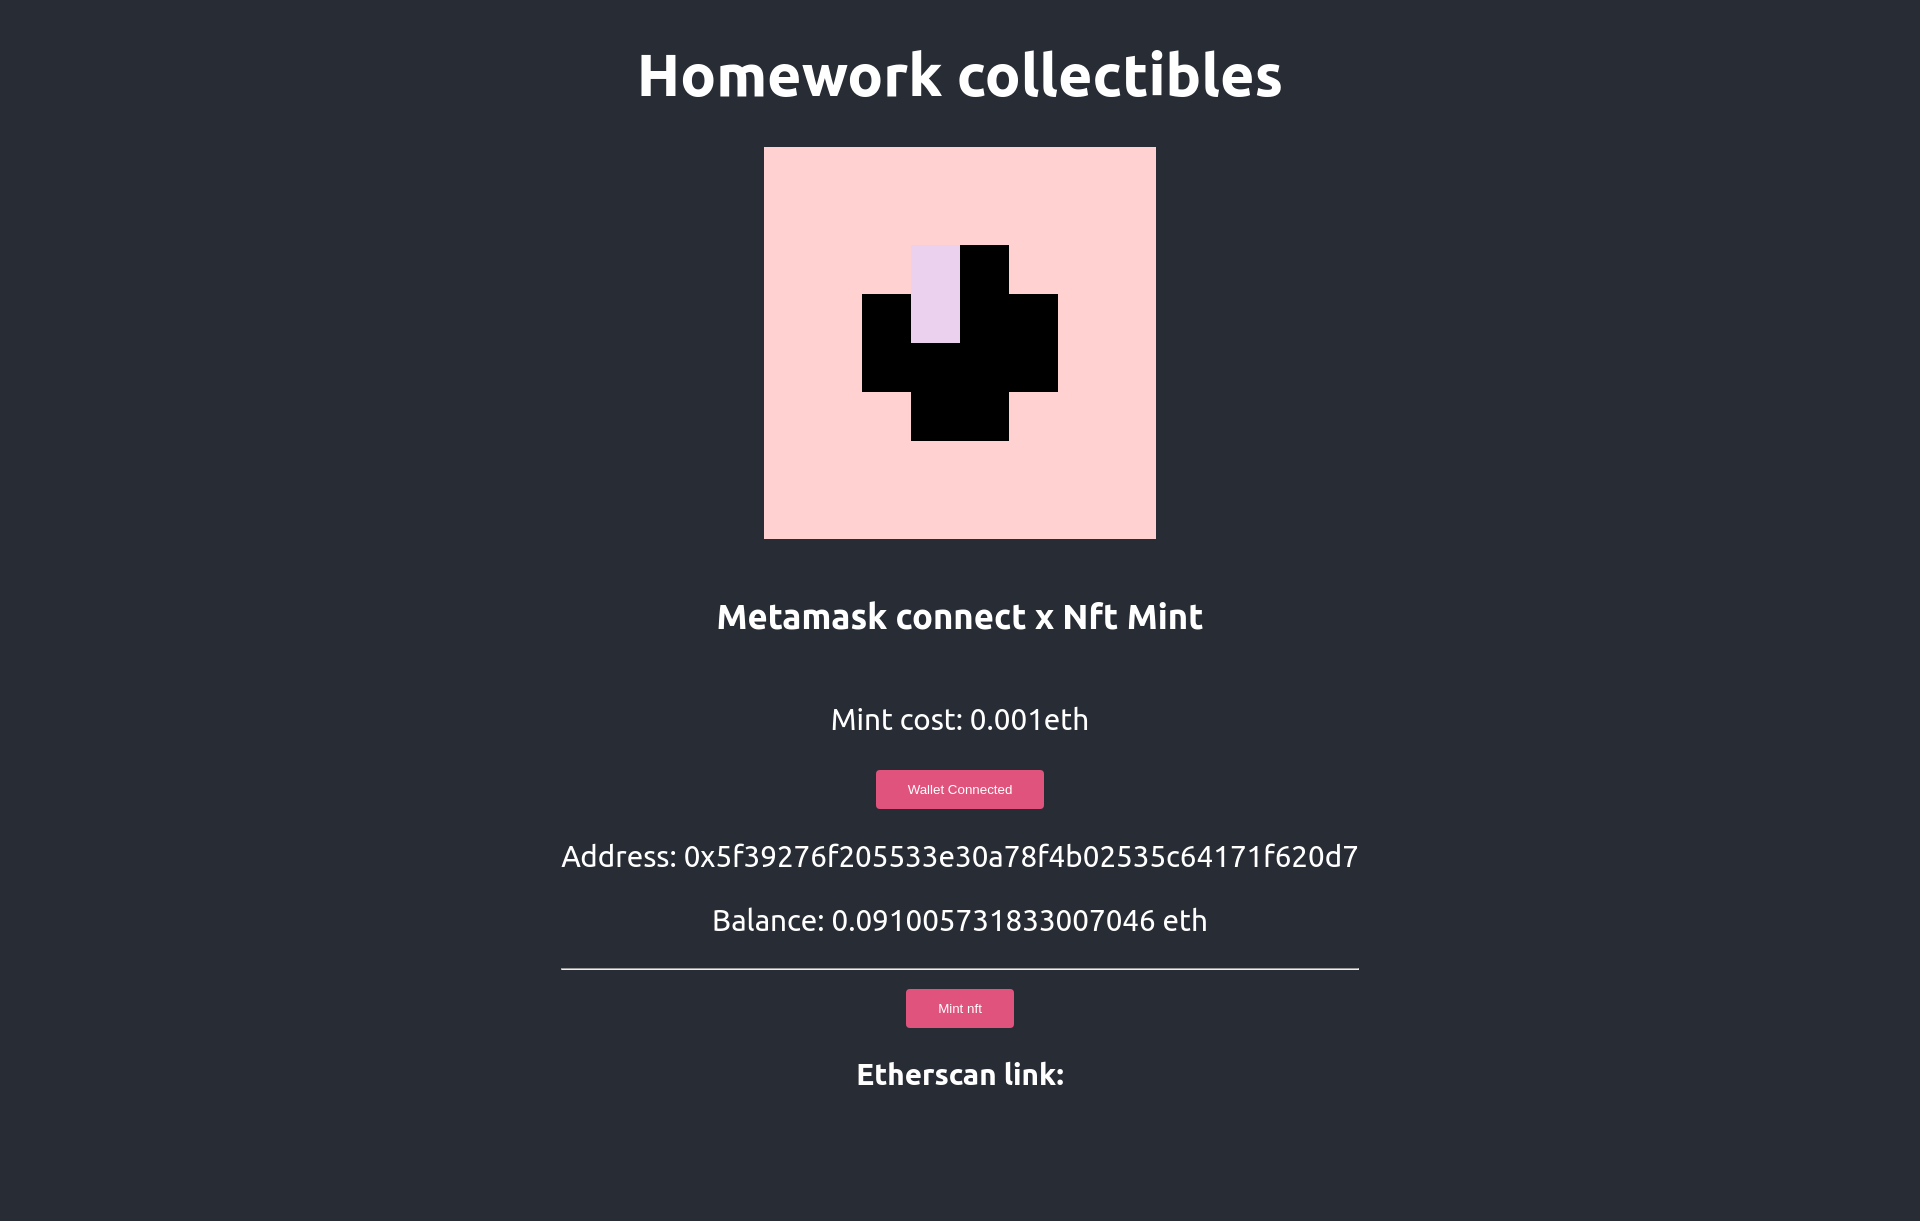
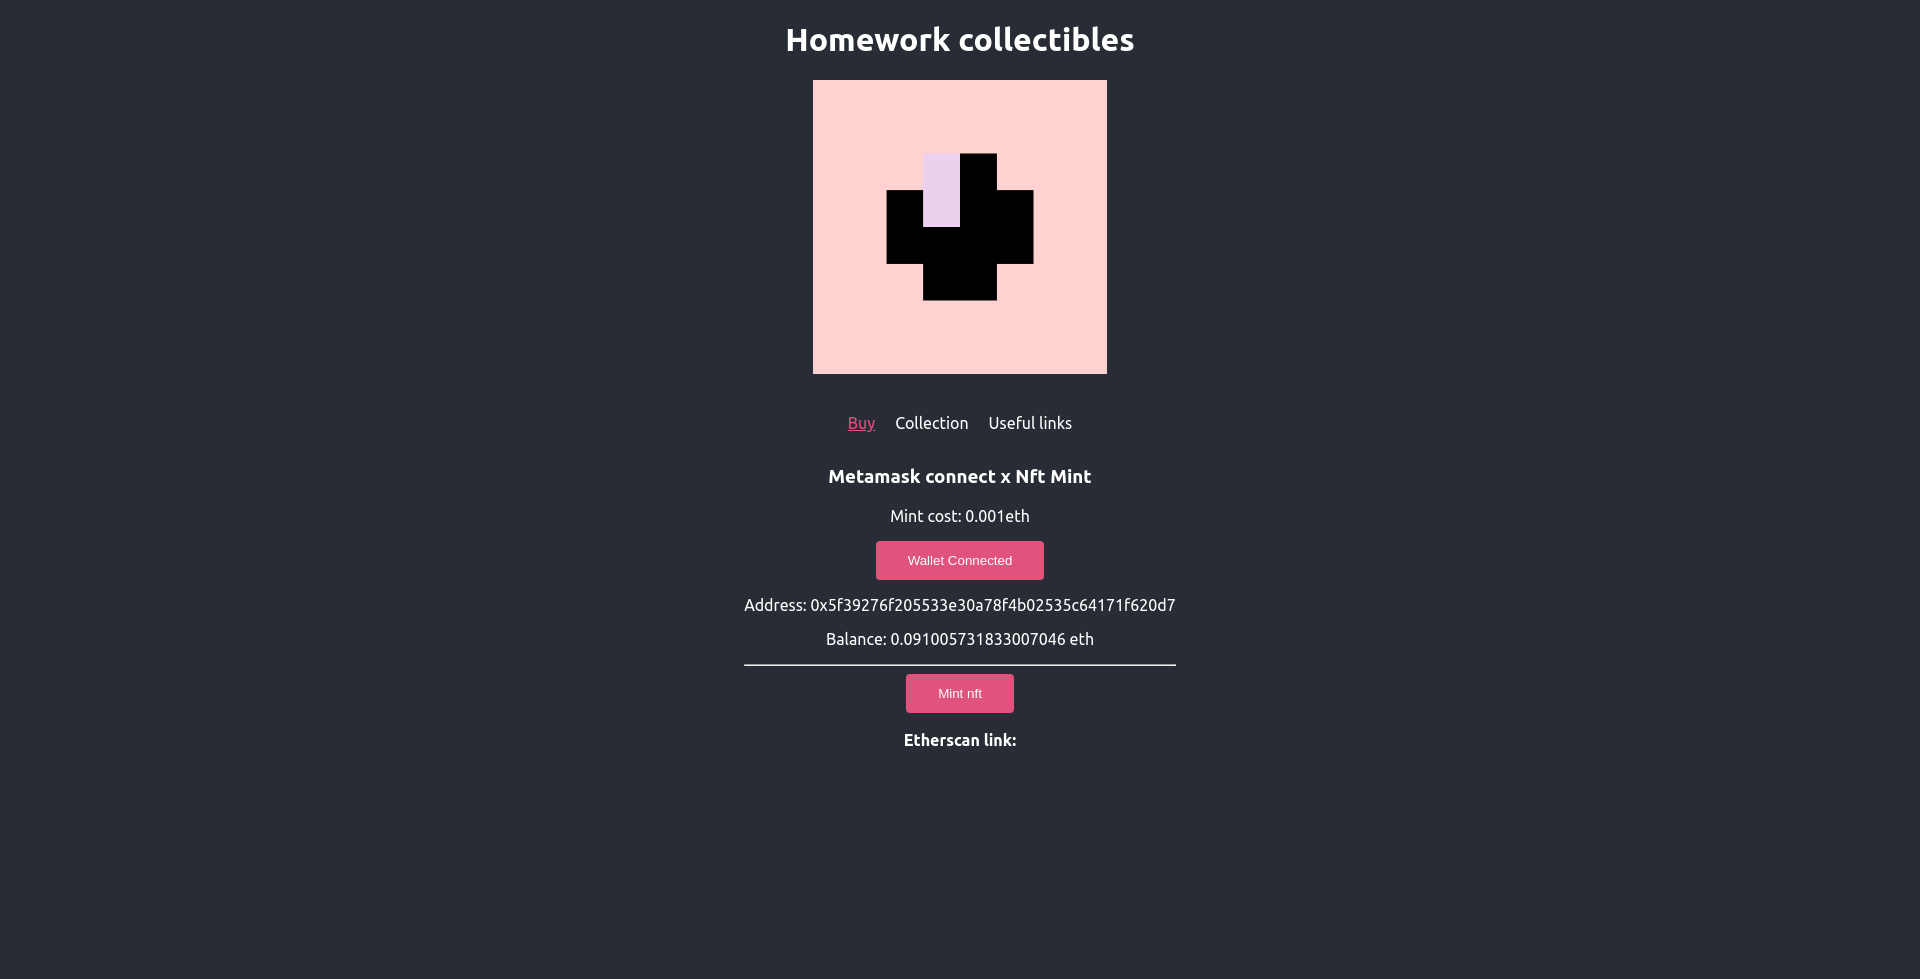
Improve frontend

Changed region(s): [[0.2812, 0.0306, 0.7188, 0.7661], [0.4375, 0.7967, 0.5625, 0.8887]]

diff --git a/frontend/src/pages/App/App.jsx b/frontend/src/pages/App/App.jsx
@@ -1,0 +1,46 @@
+import React, { useState, useCallback } from "react";
+import logo from "../../assets/images/logo.png";
+import "./App.css";
+import Metamask from "../../components/Metamask";
+import Collection from "../../components/Collection";
+
+function App() {
+  const [menu, setMenu] = useState(0);
+
+  const handleMenuChange = useCallback((id) => {
+    setMenu(id)
+  }, [menu])
+
+  const isSelectedMenu = useCallback((id) => {
+    return menu === id
+  }, [menu])
+
+  const selectedMenuStyle = useCallback((id) => {
+    return menu === id ? {textDecoration: "underline", color: "#e0537d"} : {}
+  }, [menu])
+  
+  return (
+    <div className="App">
+      <header className="App-header">
+        <h1>Homework collectibles</h1>
+
+        <img src={logo} className="App-logo" alt="logo" />
+
+        <ul className="App-menu">
+          <li style={selectedMenuStyle(0)} onClick={()=>{handleMenuChange(0)}}>Buy</li>
+          <li style={selectedMenuStyle(1)} onClick={()=>{handleMenuChange(1)}}>Collection</li>
+          <li style={selectedMenuStyle(2)} onClick={()=>{handleMenuChange(2)}}>Useful links</li>
+        </ul>
+
+        { isSelectedMenu(0) &&
+          <Metamask></Metamask>
+        }
+        { isSelectedMenu(1) &&
+          <Collection></Collection>
+        }
+      </header>
+    </div>
+  );
+}
+
+export default App;

diff --git a/frontend/src/pages/App/App.css b/frontend/src/pages/App/App.css
@@ -1,0 +1,90 @@
+.App {
+  text-align: center;
+}
+
+.App-logo {
+  height: 30vmin;
+  pointer-events: none;
+  margin-bottom: 24px;
+}
+
+html {
+  background-color: #282c34;
+}
+
+.App-header {
+  display: flex;
+  flex-direction: column;
+  align-items: center;
+  justify-content: center;
+  font-size: calc(16px);
+  color: white;
+}
+
+.App-link {
+  color: #61dafb;
+}
+
+button {
+  padding: 10px 30px;
+  background-color: #e0537d;
+  border-radius: 4px;
+  border: 2px solid #e0537d;
+  color: white;
+}
+
+button:hover{
+  cursor: pointer;
+  transform: translate(-2px, -2px);
+  border-bottom-color: #d8a5b4;
+  border-right-color: #d8a5b4;
+}
+
+a {
+  color: #e0537d;
+  font-size: 18px;
+}
+
+.App-menu {
+  padding: 0;
+  list-style: none;
+  display: flex;
+  flex-direction: row;
+}
+
+.App-menu > li {
+  padding: 0 10px;
+}
+
+.App-menu > li:hover {
+  text-decoration: underline;
+  cursor: pointer;
+}
+
+.Collection-cards {
+  margin-bottom: 100px;
+  display: flex;
+  flex-wrap: wrap;
+  justify-content: center;
+}
+
+.Card {
+  margin: 10px 22px;
+  background-color: #2e3746;
+  border: 1px solid #2e3746;
+  border-radius: 6px;
+  overflow: hidden;
+}
+
+.Card-image {
+  max-width: 256px;
+}
+
+.Card-title {
+  margin: 10px 0;
+}
+
+.Card-link {
+  line-height: 2rem;
+  font-size: 14px;
+}

diff --git a/frontend/src/components/Collection.jsx b/frontend/src/components/Collection.jsx
@@ -1,0 +1,26 @@
+import React from "react";
+import Card from "./Card";
+
+const Collection = ()=>{
+
+    return (
+        <div className="Collection">
+            <h3>NFT's Gallery</h3>
+
+            <div className="Collection-cards">
+                <Card id="1" title="Homework Collection"></Card>
+                <Card id="2" title="Homework Collection"></Card>
+                <Card id="3" title="Homework Collection"></Card>
+                <Card id="4" title="Homework Collection"></Card>
+                <Card id="5" title="Homework Collection"></Card>
+                <Card id="6" title="Homework Collection"></Card>
+                <Card id="7" title="Homework Collection"></Card>
+                <Card id="8" title="Homework Collection"></Card>
+                <Card id="9" title="Homework Collection"></Card>
+                <Card id="10" title="Homework Collection"></Card>
+            </div>
+        </div>
+    )
+}
+
+export default Collection;

diff --git a/frontend/src/components/Metamask.jsx b/frontend/src/components/Metamask.jsx
@@ -1,6 +1,6 @@
 import React, { useState } from "react";
 import { ethers } from "ethers";
-import HomeworkToken_abi from './contracts/HomeworkToken_abi.json'
+import HomeworkToken_abi from '../contracts/HomeworkToken_abi.json'
 
 const Metamask = ()=>{
     const contractAddress = '0xf4f2fcD073912D08EEDeA09Ac49eEd4F40803364';
@@ -61,7 +61,10 @@ const Metamask = ()=>{
     window.ethereum.on("chainChanged", () => window.location.reload());
 
     return (
-        <div className="metamask">
+        <div style={{marginBottom: "100px"}}>
+            <h3>Metamask connect x Nft Mint</h3>
+            <p>Mint cost: 0.001eth</p>
+
             <button onClick={connectHandler}>{buttonText}</button><br />
             <div>
                 <p>Address: {account}</p>

diff --git a/frontend/src/components/Card.jsx b/frontend/src/components/Card.jsx
@@ -1,0 +1,25 @@
+import React from "react";
+
+const Card = ({ id, title, children }) => {
+  return (
+    <div className="Card">
+      <img
+        className="Card-image"
+        src={`https://github.com/notnian/arkania-web3/blob/main/assets/build/pixel_images/${id}.png?raw=true`}
+        alt={id}
+      />
+      <div className="Card-title">
+        <strong>
+          {title} #{id}
+        </strong>
+        <div>
+          <a className="Card-link" href={`https://testnets.opensea.io/assets/0xf4f2fcd073912d08eedea09ac49eed4f40803364/${id}`}>
+            Voir sur opensea
+          </a>
+        </div>
+      </div>
+    </div>
+  );
+};
+
+export default Card;

diff --git a/frontend/src/index.js b/frontend/src/index.js
@@ -1,7 +1,7 @@
 import React from 'react';
 import ReactDOM from 'react-dom';
 import './index.css';
-import App from './App';
+import App from './pages/App/App';
 import reportWebVitals from './reportWebVitals';
 
 ReactDOM.render(

diff --git a/README.md b/README.md
@@ -39,3 +39,4 @@ Pour voir le resultat (Rinkby testnet):
 Aperçu du frontend
 
 ![Frontend](https://raw.githubusercontent.com/notnian/arkania-web3/main/frontend/screenshot-frontend.png)
+![Frontend](https://raw.githubusercontent.com/notnian/arkania-web3/main/frontend/screenshot-frontend-bis.png)
